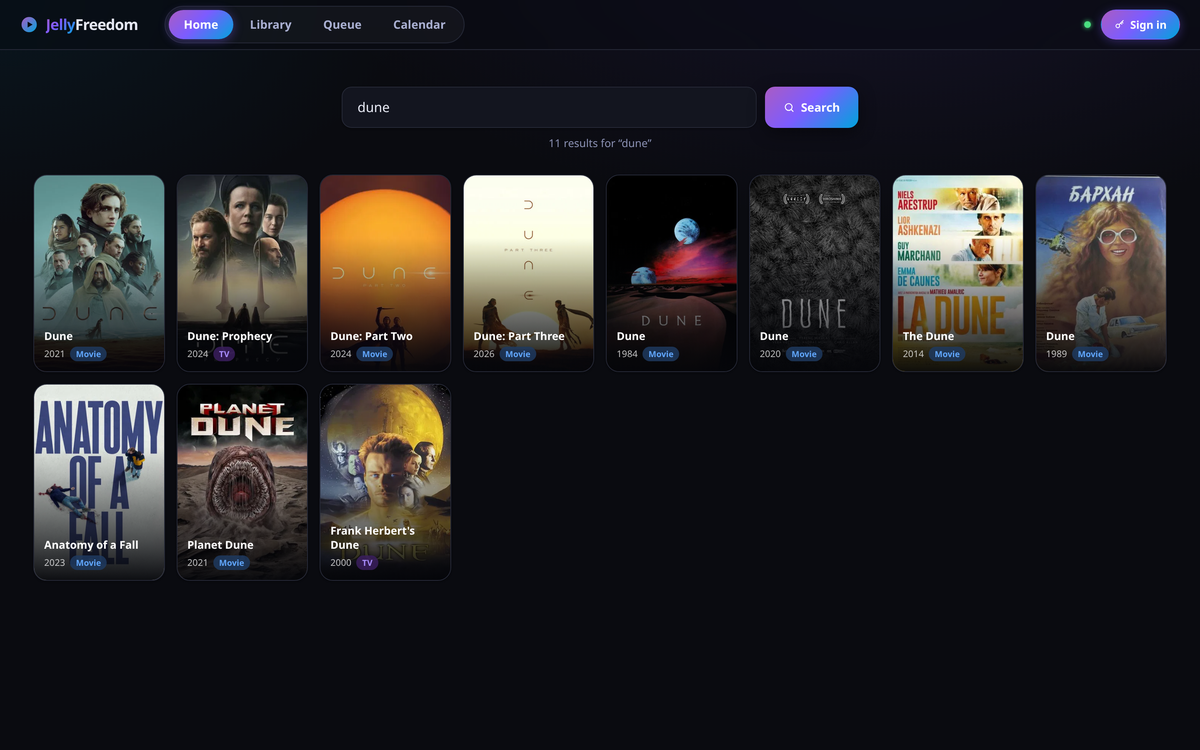
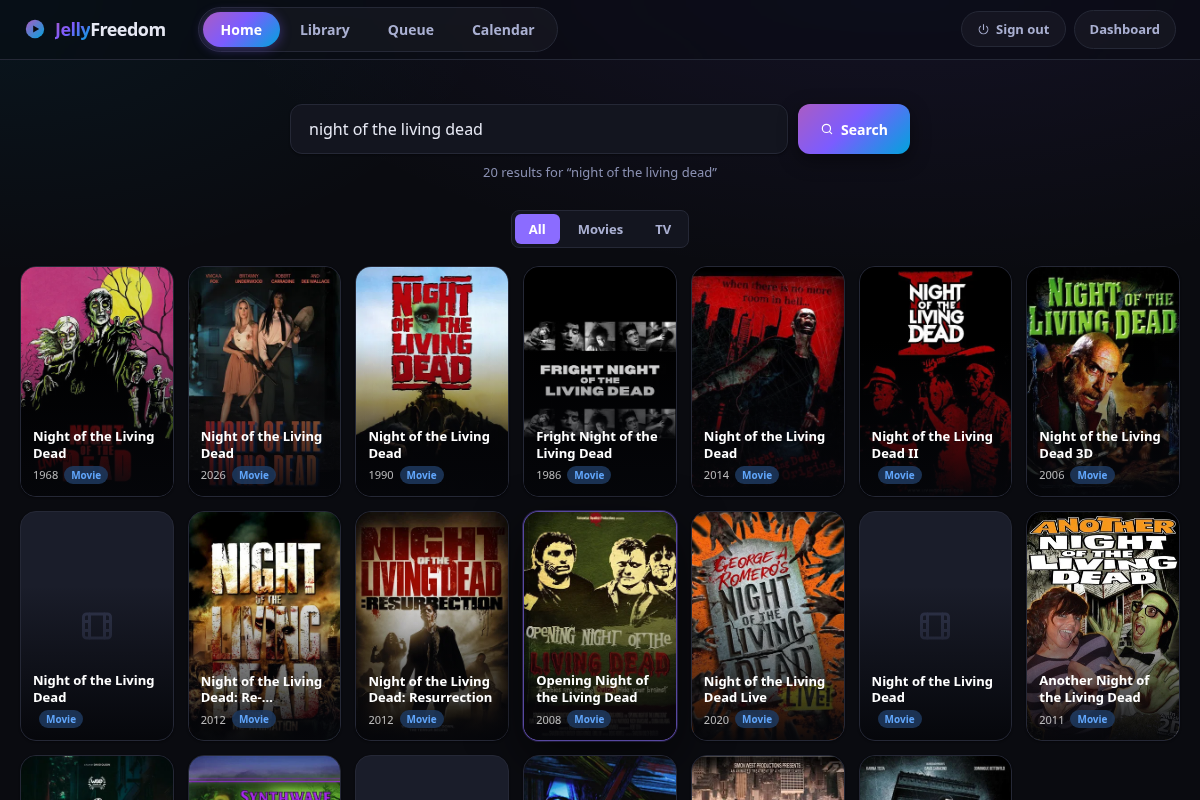
Site: add the Discord, new screenshots, simpler layout (#56)
* Site: add the Discord, new screenshots, simpler layout

- Discord invite in the nav, hero, a short "Come say hi" section, the footer, the What's
  new page, and the README (badge + docs table)
- Screenshots retaken on 0.8.0 from a demo install using only public-domain and Creative
  Commons films, and said so on the page; the old ones showed commercial films and scene
  release names
- Three screenshots instead of five; "How it works" dropped, the hero and feature cards
  already say it

* Site nav: drop Screenshots, Discord and GitHub as icons

diff --git a/docs/index.html b/docs/index.html
@@ -41,12 +41,11 @@
   </span>
   <span class="nav-links">
     <a href="#install">Install</a>
-    <a href="#look">Screenshots</a>
     <a href="#features">Features</a>
-    <a href="#how">How</a>
     <a href="whats-new.html">What&rsquo;s new</a>
     <a href="https://github.com/MoonTheRipper/JellyFreedom/blob/main/docs/install.md" target="_blank" rel="noopener">Docs</a>
-    <a href="https://github.com/MoonTheRipper/JellyFreedom" target="_blank" rel="noopener">GitHub ↗</a>
+    <a class="icon-link" href="https://discord.gg/DkXgr22Aan" target="_blank" rel="noopener" aria-label="Discord" title="Discord"><svg viewBox="0 0 24 24" fill="currentColor" aria-hidden="true"><path d="M20.32 4.37a19.8 19.8 0 0 0-4.89-1.52.07.07 0 0 0-.08.04c-.21.38-.44.87-.61 1.25a18.27 18.27 0 0 0-5.49 0 12.64 12.64 0 0 0-.62-1.25.08.08 0 0 0-.08-.04 19.74 19.74 0 0 0-4.88 1.52.07.07 0 0 0-.03.03C.53 9.05-.32 13.58.1 18.06a.08.08 0 0 0 .03.06 19.9 19.9 0 0 0 5.99 3.03.08.08 0 0 0 .09-.03c.46-.63.87-1.3 1.22-1.99a.08.08 0 0 0-.04-.11 13.1 13.1 0 0 1-1.87-.89.08.08 0 0 1-.01-.13l.37-.29a.07.07 0 0 1 .08-.01c3.93 1.79 8.18 1.79 12.06 0a.07.07 0 0 1 .08.01l.37.29a.08.08 0 0 1-.01.13 12.3 12.3 0 0 1-1.87.89.08.08 0 0 0-.04.11c.36.7.77 1.36 1.22 1.99a.08.08 0 0 0 .09.03 19.84 19.84 0 0 0 6-3.03.08.08 0 0 0 .03-.06c.5-5.18-.84-9.67-3.55-13.66a.06.06 0 0 0-.03-.03zM8.02 15.33c-1.18 0-2.16-1.09-2.16-2.42s.96-2.42 2.16-2.42c1.21 0 2.18 1.1 2.16 2.42 0 1.33-.96 2.42-2.16 2.42zm7.97 0c-1.18 0-2.15-1.09-2.15-2.42s.95-2.42 2.15-2.42c1.21 0 2.18 1.1 2.16 2.42 0 1.33-.95 2.42-2.16 2.42z"/></svg></a>
+    <a class="icon-link" href="https://github.com/MoonTheRipper/JellyFreedom" target="_blank" rel="noopener" aria-label="GitHub" title="GitHub"><svg viewBox="0 0 24 24" fill="currentColor" aria-hidden="true"><path d="M12 .3a12 12 0 0 0-3.8 23.4c.6.1.8-.3.8-.6v-2c-3.3.7-4-1.6-4-1.6-.6-1.4-1.4-1.8-1.4-1.8-1-.7.1-.7.1-.7 1.2 0 1.9 1.2 1.9 1.2 1 1.8 2.8 1.3 3.5 1 0-.8.4-1.3.7-1.6-2.7-.3-5.5-1.3-5.5-6 0-1.2.5-2.3 1.3-3.1-.2-.4-.6-1.6 0-3.2 0 0 1-.3 3.4 1.2a11.5 11.5 0 0 1 6 0c2.3-1.5 3.3-1.2 3.3-1.2.6 1.6.2 2.8 0 3.2.9.8 1.3 1.9 1.3 3.2 0 4.6-2.8 5.6-5.5 5.9.5.4.9 1 .9 2.2v3.3c0 .3.1.7.8.6A12 12 0 0 0 12 .3"/></svg></a>
   </span>
 </div></nav>
 
@@ -62,7 +61,7 @@
   it looks only where you tell it to, and plays only what you choose.</p>
   <div class="cta">
     <a class="btn btn-primary" href="#install">Get started</a>
-    <a class="btn btn-ghost" href="https://github.com/MoonTheRipper/JellyFreedom" target="_blank" rel="noopener">View on GitHub</a>
+    <a class="btn btn-ghost" href="https://discord.gg/DkXgr22Aan" target="_blank" rel="noopener">Join the Discord</a>
   </div>
 </div></header>
 
@@ -79,41 +78,27 @@
 
 <section id="look"><div class="wrap">
   <h2 class="section-title">What it looks like</h2>
-  <p class="section-sub">Real screenshots — nothing here is a mockup.</p>
+  <p class="section-sub">Real screenshots from a demo install, using public-domain and Creative Commons films.</p>
   <div class="shots">
 
     <div class="shot">
       <h3>Find it</h3>
       <p>Type a name, pick the right title. Cover art and descriptions come from TMDB.</p>
-      <img src="img/search.png" alt="The search page, showing results as cover art" loading="lazy" width="1200" height="750">
+      <img src="img/search.png" alt="The search page, showing results as cover art" loading="lazy" width="1200" height="800">
     </div>
 
     <div class="shot">
-      <h3>Choose the file — or don&rsquo;t</h3>
-      <p>Every option shows its quality, video and audio format, size, and how many people are
-      sharing it, so you can tell a good one from a bad one at a glance. Leave it alone and a
-      sensible choice is made for you.</p>
-      <img src="img/choose-release.png" alt="Choosing which file to play, with quality and size shown for each option" loading="lazy" width="1200" height="792">
+      <h3>Everything in one place</h3>
+      <p>Artwork, cast and details for every title, and one button to request it. Pick the exact
+      file yourself, or leave it and a sensible choice is made for you.</p>
+      <img src="img/title.png" alt="A title's page, with its artwork, details and cast" loading="lazy" width="1200" height="590">
     </div>
 
     <div class="shot">
-      <h3>Your library, as a tree</h3>
-      <p>Shows open into seasons, seasons into episodes. A show that is still airing says
-      &ldquo;Up to date&rdquo;, never &ldquo;Complete&rdquo; &mdash; so you notice when the next
-      episode lands.</p>
-      <img src="img/library.png" alt="The library, showing shows expanding into seasons and episodes" loading="lazy" width="1200" height="875">
-    </div>
-
-    <div class="shot">
-      <h3>Watch things arrive</h3>
-      <p>The queue is a tree too, and anything that needs you sorts to the top.</p>
-      <img src="img/queue.png" alt="The request queue, grouped by show and season" loading="lazy" width="1200" height="875">
-    </div>
-
-    <div class="shot">
-      <h3>A dashboard that tells you what&rsquo;s left</h3>
-      <p>Every row links straight to the thing that fixes it.</p>
-      <img src="img/dashboard.png" alt="The setup dashboard, listing each component and whether it is ready" loading="lazy" width="1200" height="817">
+      <h3>A dashboard for the whole stack</h3>
+      <p>Health, VPN, logs, users and settings &mdash; and a setup page where every row links
+      straight to the thing that fixes it.</p>
+      <img src="img/dashboard.png" alt="The dashboard's health page, showing every service running" loading="lazy" width="1200" height="450">
     </div>
 
   </div>
@@ -132,20 +117,17 @@
   </div>
 </div></section>
 
-<section id="how"><div class="wrap">
-  <h2 class="section-title">How it works</h2>
-  <p class="section-sub">Four steps, and you only do the first one.</p>
-  <div class="steps">
-    <div class="step"><h3>You search</h3><p>It looks in the places you added and shows you what is there, with quality and size for each.</p></div>
-    <div class="step"><h3>It picks</h3><p>Either you choose, or it takes the best one &mdash; favouring files that play without your TV having to work hard.</p></div>
-    <div class="step"><h3>It appears</h3><p>The title shows up in your Jellyfin library straight away, ready to play.</p></div>
-    <div class="step"><h3>You watch</h3><p>Press play on any device. It streams while you watch and lets go when you stop.</p></div>
-  </div>
+<section id="community" class="alt"><div class="wrap community">
+  <h2 class="section-title">Come say hi</h2>
+  <p class="section-sub">The JellyFreedom Discord is where people get help, show off their setups,
+  and shape what comes next. Beginner questions are genuinely welcome.</p>
+  <a class="btn btn-primary" href="https://discord.gg/DkXgr22Aan" target="_blank" rel="noopener">Join the Discord</a>
 </div></section>
 
 <footer><div class="wrap">
   <strong class="brand" style="font-size:16px">Jelly<span class="grad-text">Freedom</span></strong>
   &nbsp;·&nbsp; <a href="https://github.com/MoonTheRipper/JellyFreedom" target="_blank" rel="noopener">GitHub</a>
+  &nbsp;·&nbsp; <a href="https://discord.gg/DkXgr22Aan" target="_blank" rel="noopener">Discord</a>
   &nbsp;·&nbsp; <a href="whats-new.html">What&rsquo;s new</a>
   &nbsp;·&nbsp; <a href="https://github.com/MoonTheRipper/JellyFreedom/blob/main/docs/install.md" target="_blank" rel="noopener">Docs</a>
   &nbsp;·&nbsp; <a href="https://github.com/MoonTheRipper/JellyFreedom/releases/latest" target="_blank" rel="noopener">Releases</a>

diff --git a/docs/whats-new.html b/docs/whats-new.html
@@ -35,7 +35,8 @@
     <a href="./#features">Features</a>
     <a href="whats-new.html" aria-current="page" style="color:var(--text)">What&rsquo;s new</a>
     <a href="https://github.com/MoonTheRipper/JellyFreedom/blob/main/docs/install.md" target="_blank" rel="noopener">Docs</a>
-    <a href="https://github.com/MoonTheRipper/JellyFreedom" target="_blank" rel="noopener">GitHub ↗</a>
+    <a class="icon-link" href="https://discord.gg/DkXgr22Aan" target="_blank" rel="noopener" aria-label="Discord" title="Discord"><svg viewBox="0 0 24 24" fill="currentColor" aria-hidden="true"><path d="M20.32 4.37a19.8 19.8 0 0 0-4.89-1.52.07.07 0 0 0-.08.04c-.21.38-.44.87-.61 1.25a18.27 18.27 0 0 0-5.49 0 12.64 12.64 0 0 0-.62-1.25.08.08 0 0 0-.08-.04 19.74 19.74 0 0 0-4.88 1.52.07.07 0 0 0-.03.03C.53 9.05-.32 13.58.1 18.06a.08.08 0 0 0 .03.06 19.9 19.9 0 0 0 5.99 3.03.08.08 0 0 0 .09-.03c.46-.63.87-1.3 1.22-1.99a.08.08 0 0 0-.04-.11 13.1 13.1 0 0 1-1.87-.89.08.08 0 0 1-.01-.13l.37-.29a.07.07 0 0 1 .08-.01c3.93 1.79 8.18 1.79 12.06 0a.07.07 0 0 1 .08.01l.37.29a.08.08 0 0 1-.01.13 12.3 12.3 0 0 1-1.87.89.08.08 0 0 0-.04.11c.36.7.77 1.36 1.22 1.99a.08.08 0 0 0 .09.03 19.84 19.84 0 0 0 6-3.03.08.08 0 0 0 .03-.06c.5-5.18-.84-9.67-3.55-13.66a.06.06 0 0 0-.03-.03zM8.02 15.33c-1.18 0-2.16-1.09-2.16-2.42s.96-2.42 2.16-2.42c1.21 0 2.18 1.1 2.16 2.42 0 1.33-.96 2.42-2.16 2.42zm7.97 0c-1.18 0-2.15-1.09-2.15-2.42s.95-2.42 2.15-2.42c1.21 0 2.18 1.1 2.16 2.42 0 1.33-.95 2.42-2.16 2.42z"/></svg></a>
+    <a class="icon-link" href="https://github.com/MoonTheRipper/JellyFreedom" target="_blank" rel="noopener" aria-label="GitHub" title="GitHub"><svg viewBox="0 0 24 24" fill="currentColor" aria-hidden="true"><path d="M12 .3a12 12 0 0 0-3.8 23.4c.6.1.8-.3.8-.6v-2c-3.3.7-4-1.6-4-1.6-.6-1.4-1.4-1.8-1.4-1.8-1-.7.1-.7.1-.7 1.2 0 1.9 1.2 1.9 1.2 1 1.8 2.8 1.3 3.5 1 0-.8.4-1.3.7-1.6-2.7-.3-5.5-1.3-5.5-6 0-1.2.5-2.3 1.3-3.1-.2-.4-.6-1.6 0-3.2 0 0 1-.3 3.4 1.2a11.5 11.5 0 0 1 6 0c2.3-1.5 3.3-1.2 3.3-1.2.6 1.6.2 2.8 0 3.2.9.8 1.3 1.9 1.3 3.2 0 4.6-2.8 5.6-5.5 5.9.5.4.9 1 .9 2.2v3.3c0 .3.1.7.8.6A12 12 0 0 0 12 .3"/></svg></a>
   </span>
 </div></nav>
 
@@ -85,6 +86,7 @@
   &nbsp;·&nbsp; <a href="./">Home</a>
   &nbsp;·&nbsp; <a href="https://github.com/MoonTheRipper/JellyFreedom/blob/main/docs/install.md" target="_blank" rel="noopener">Docs</a>
   &nbsp;·&nbsp; <a href="https://github.com/MoonTheRipper/JellyFreedom" target="_blank" rel="noopener">GitHub</a>
+  &nbsp;·&nbsp; <a href="https://discord.gg/DkXgr22Aan" target="_blank" rel="noopener">Discord</a>
   &nbsp;·&nbsp; MIT License &nbsp;·&nbsp; © moontheripper
 </div></footer>
 

diff --git a/docs/site.css b/docs/site.css
@@ -19,6 +19,7 @@ nav .wrap{display:flex;align-items:center;justify-content:space-between;height:6
 .brand .logo{width:26px;height:26px}
 .nav-links{display:flex;gap:22px;align-items:center;font-size:14px}
 .nav-links a{color:var(--muted)}.nav-links a:hover{color:var(--text)}
+.icon-link{display:inline-flex}.icon-link svg{width:20px;height:20px}
 .btn{display:inline-block;padding:11px 22px;border-radius:8px;font-weight:600;font-size:14px;transition:transform .15s,box-shadow .15s}
 .btn-primary{background:var(--grad);color:#fff;box-shadow:0 6px 22px rgba(120,80,200,.35)}
 .btn-primary:hover{transform:translateY(-2px);box-shadow:0 10px 30px rgba(120,80,200,.5)}
@@ -65,11 +66,9 @@ section{padding:72px 0}
 .card h3{font-size:18px;margin-bottom:6px}
 .card p{color:var(--muted);font-size:14.5px}
 
-/* steps */
-.steps{counter-reset:s;display:grid;grid-template-columns:repeat(auto-fit,minmax(220px,1fr));gap:18px;max-width:920px;margin:0 auto}
-.step{position:relative;background:var(--surface);border:1px solid var(--border);border-radius:12px;padding:24px 22px}
-.step::before{counter-increment:s;content:counter(s);display:grid;place-items:center;width:34px;height:34px;border-radius:50%;background:var(--grad);color:#fff;font-family:'Quicksand';font-weight:700;margin-bottom:12px}
-.step h3{font-size:16px;margin-bottom:4px}.step p{color:var(--muted);font-size:14px}
+/* community */
+.community{text-align:center}
+.community .section-sub{max-width:560px;margin-left:auto;margin-right:auto;margin-bottom:28px}
 
 footer{border-top:1px solid var(--border);padding:40px 0;text-align:center;color:var(--muted);font-size:13.5px}
 footer a{color:var(--g2)}
@@ -113,7 +112,7 @@ footer .brand{display:inline-flex}
   .copy{top:8px;left:14px;right:auto}
   .cta{flex-direction:column;align-items:stretch}
   .cta .btn{text-align:center}
-  .grid,.steps{grid-template-columns:1fr}
+  .grid{grid-template-columns:1fr}
 }
 @media (max-width: 400px){
   .brand{font-size:17px}

diff --git a/README.md b/README.md
@@ -3,6 +3,7 @@
 [![CI](https://github.com/MoonTheRipper/JellyFreedom/actions/workflows/ci.yml/badge.svg)](https://github.com/MoonTheRipper/JellyFreedom/actions/workflows/ci.yml)
 [![Release](https://img.shields.io/github/v/release/MoonTheRipper/JellyFreedom)](https://github.com/MoonTheRipper/JellyFreedom/releases/latest)
 [![License: MIT](https://img.shields.io/badge/license-MIT-blue.svg)](LICENSE)
+[![Discord](https://img.shields.io/badge/chat-Discord-5865F2?logo=discord&logoColor=white)](https://discord.gg/DkXgr22Aan)
 
 **Watch things straight from a torrent, in Jellyfin, without filling up your disk.**
 
@@ -20,37 +21,38 @@ distributions, or anything else you host or have the right to use.
 
 ## What it looks like
 
+*Screenshots are from a demo install, using public-domain and Creative Commons films.*
+
 **Search for something.** Type a name and pick the right title.
 
 ![Searching for a title](docs/img/search.png)
 
+**Everything about a title, in one place** — cast, details, similar titles, and one button
+to request it.
+
+![A title's page, with its artwork, details and cast](docs/img/title.png)
+
 **Choose exactly which file you want** — or let it decide for you. Each option shows its
 quality, video and audio format, size, and how many people are sharing it, so you can tell
 a good file from a bad one at a glance.
-
-![Choosing which file to play](docs/img/choose-release.png)
 
 **Your library, as a tree.** Shows open into seasons, and seasons into episodes, so you can
 see what you have and what is still coming without scrolling through hundreds of rows. A
 show that is still airing says *"Up to date"*, never *"Complete"* — so you notice when the
 next episode lands.
 
-![The library, showing shows, seasons and episodes](docs/img/library.png)
-
 **Watch things arrive.** The queue is a tree too, and anything that needs you sorts to the
 top.
-
-![The request queue](docs/img/queue.png)
 
 **Paste a link to a video page** and it becomes an entry in your library. JellyFreedom
 works out what the video is, shows you the title and thumbnail, and adds it to Jellyfin —
 and it looks the link up again every time you press play, so it keeps working when the site
 changes its addresses. Both the lookup and the stream go through your VPN.
 
-**A dashboard that tells you what is left to do.** Every row links to the thing that fixes
-it.
+**A dashboard for the whole stack** — health, VPN, logs, users and settings, plus a setup
+page where every row links to the thing that fixes it.
 
-![The setup dashboard](docs/img/dashboard.png)
+![The dashboard's health page, showing every service running](docs/img/dashboard.png)
 
 ---
 
@@ -163,6 +165,7 @@ finds another one next time.
 | [Operations](docs/dev/operations.md) | VPN details, buffer tuning, Jellyfin and Apple TV setup |
 | [Roadmap](docs/dev/roadmap.md) | What is genuinely still open |
 | [Project website](https://moontheripper.github.io/JellyFreedom/) | Overview |
+| [Discord](https://discord.gg/DkXgr22Aan) | Help, setups, ideas &mdash; come say hi |
 
 ## Your files, your responsibility
 
